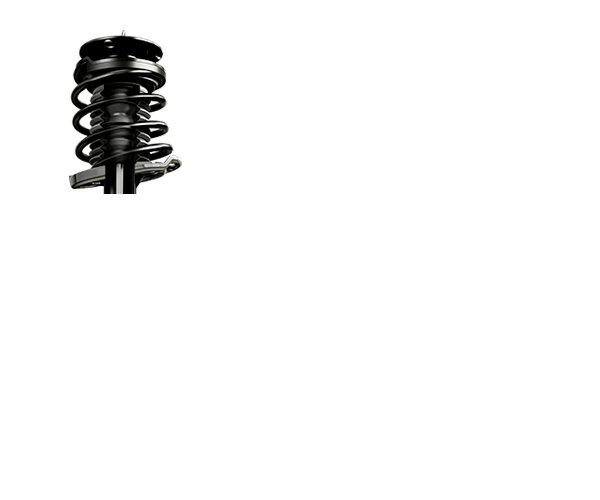
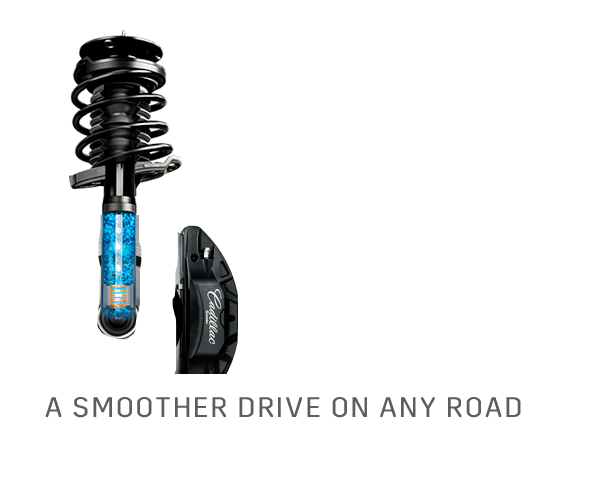
Completed 300x250.

Changed region(s): [[0.06, 0.78, 0.87, 0.84], [0.27, 0.45, 0.42, 0.75], [0.15, 0.39, 0.24, 0.69]]

diff --git a/app/rich/templates/js/animations/en/300x250.js b/app/rich/templates/js/animations/en/300x250.js
@@ -2,18 +2,25 @@ var timeline = new TimelineLite();
         timeline.add('frame1')
             .addDelay(1, 'frame2')
         timeline.add('frame2')
-            .to('.spring', 0.3, { height: '-=10', top: '+=5' })
-            .to('.spring', 0.3, { height: '+=10', top: '-=5' })
-            .to('.spring', 0.3, { height: '-=30', top: '+=15' })
-            .to('.spring', 0.3, { height: '+=30', top: '-=15' })
-            .addDelay(1, 'frame3')
+            .to('.mask1', 0.1, { top: '-=10' })
+            .to('.mask2', 0.1, { top: '-=10' }, '-=0.05')
+            .to('.mask1', 0.15, { top: '+=7' })
+            .to('.mask2', 0.15, { top: '+=7' }, '-=0.05')
+            .to('.mask1', 0.1, { top: '-=5' })
+            .to('.mask2', 0.1, { top: '-=5' }, '-=0.05')
+            .to('.mask1', 0.15, { top: '+=11' })
+            .to('.mask2', 0.15, { top: '+=11' }, '-=0.05')
+            .to('.masks', 0, { opacity: 0 })
         timeline.add('frame3')
+            .to('.spring', 1, { opacity: 1 })
+            .addDelay(2.5, 'frame4')
+        timeline.add('frame4')
             .to('.wipe', 0.5, { width: 300 })
             .to('.wipe-line', 0.5, { left: 300 }, '-=0.5')
             .to('.wipe-line', 0.3, { left: 310 })
             .to('.background1, .spring', 0, { opacity: 0 })
-            .addDelay(3, 'frame4')
-        timeline.add('frame4')
+            .addDelay(3, 'frame5')
+        timeline.add('frame5')
             .to('.wipe', 1, { opacity: 0 }).add('frame3-logo')
             .to('.sprite1', 0.3, { top: 0 }).add('sprites')
             .to('.sprite2', 0.3, { top: 0 }, 'sprites+=0.15')
@@ -23,4 +30,4 @@ var timeline = new TimelineLite();
             .to('.background3', 1, { opacity: 1 }).add('frame3-background')
             .addDelay(0.5, 'cta')
             .to('.cta', 1, { opacity: 1 }).add('cta')
-        timeline.add('frame5')
+        timeline.add('frame6')

diff --git a/app/rich/templates/index.html b/app/rich/templates/index.html
@@ -21,10 +21,14 @@
                 <div class="wipe-line"></div>
                 <img class="background2" src="background2.jpg">
             </div>
-            <img class="spring item show" src="spring.png">
+            <img class="spring item" src="spring.png">
             <img class="background3 item" src="background3.png">
             <img class="logo item show" src="logo.png">
 
+            <div class="masks item show">
+                <div class="mask1"></div>
+                <div class="mask2"></div>
+            </div>
             <div class="sprites">
                 <div class="sprite1 sprite"></div>
                 <div class="sprite2 sprite"></div>

diff --git a/app/rich/templates/css/300x250.scss b/app/rich/templates/css/300x250.scss
@@ -49,6 +49,22 @@ html, body {
             }
         }
 
+        .masks {
+            .mask1 {
+                top: 187px;
+                width: 217px;
+                height: 11px;
+                left: 0px;
+            }
+
+            .mask2 {
+                top: 146px;
+                width: 40px;
+                height: 11px;
+                left: 220px;
+            }
+        }
+
         #border {
             width: {width}-2px;
             height: {height}-2px;

diff --git a/app/rich/templates/css/global.scss b/app/rich/templates/css/global.scss
@@ -119,6 +119,15 @@ table {
             }
         }
 
+        .masks {
+            z-index: 5;
+
+            div {
+                position: absolute;
+                background: white;
+            }
+        }
+
         .logo {
             z-index: 1;
         }
